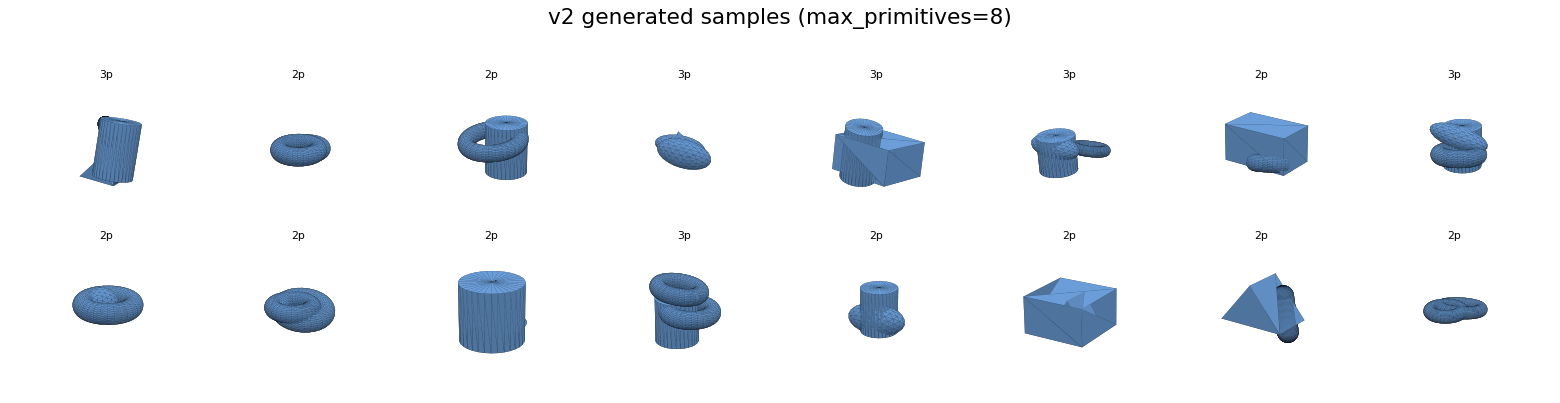
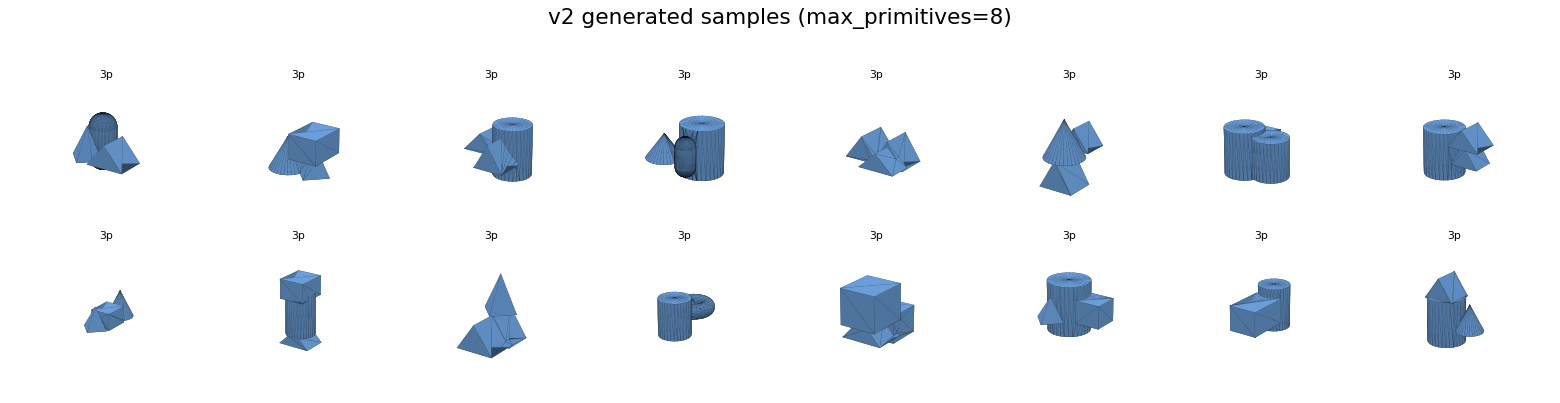
fix(mesh): clean union export, structured placement, exact/higher-fidelity inertia
Addresses faulty v2 mesh topology and improves URDF mass/inertia accuracy:
- export: visual/collision mesh is now the watertight boolean UNION
  (ExportConfig.union_visual_mesh) instead of an overlapping-primitive
  concatenation -> no internal faces / self-intersections in RViz/MoveIt.
- cem: structured placement (ParameterDistribution.structured_placement) seats
  each non-base primitive against a face of an existing one, axis-aligned, then
  re-seats the assembly on the ground -> coherent multi-part objects instead of
  random blobs. Legacy free-offset placement retained (paper_repro uses it).
- primitives: single-primitive objects use exact analytic inertia
  (box/cyl/sphere/ellipsoid; ellipsoid gained an exact tensor); icosphere
  subdiv 2->3 and cone 32 sections cut curved-primitive faceting from ~5% to <1%.
- gallery re-rendered from union meshes (docs/gallery/*.png).

Audit (docs/mesh_and_inertia.md): single box exact to 0.00%; all 80 archetypes +
sampled objects have valid (PD, symmetric, triangle-inequality) inertia and COM
inside AABB; 0 non-watertight fallbacks. Tests: 107 passing.

diff --git a/src/cem.py b/src/cem.py
@@ -24,7 +24,7 @@ from pathlib import Path
 from primitives import (
     CompositeObject, Primitive, Box, Cylinder, Sphere, Capsule,
     Cone, Pyramid, Torus, Ellipsoid, Wedge,
-    Transform, PrimitiveType, seat_height,
+    Transform, PrimitiveType, seat_height, half_extents,
 )
 from scoring import ObjectScorer, ScoreBreakdown, ScoringConfig
 
@@ -147,6 +147,15 @@ class ParameterDistribution:
     rotation_std: float = 0.3
     friction_mean: float = 0.8
     friction_std: float = 0.2
+    # v2 default: place each non-base primitive against a FACE of an existing
+    # one, axis-aligned (structured, "assembled"-looking objects). Set False for
+    # the v1 free random-offset placement.
+    structured_placement: bool = True
+    # Overlap fraction (of the smaller half-extent) when face-attaching, so the
+    # contact is a solid intersection rather than a tangential touch. Generous
+    # enough to stay robust to the approximate half_extents of asymmetric
+    # primitives (cone/pyramid/wedge).
+    attach_overlap: float = 0.4
 
     def __post_init__(self):
         if self.n_primitives_probs is None:
@@ -169,16 +178,18 @@ class ParameterDistribution:
         return int(rng.choice(len(self.n_primitives_probs), p=self.n_primitives_probs) + 1)
 
     def sample_primitive(self, rng: np.random.Generator, is_base: bool = False) -> Primitive:
-        """Sample one primitive of a CEM-chosen type with appropriate transform."""
+        """Sample one primitive of a CEM-chosen type. In structured mode the
+        transform is left at identity (placement is done by sample_object); in
+        legacy mode a random offset+rotation is applied here."""
         ti = int(rng.choice(len(PRIMITIVE_SPECS), p=self.primitive_type_probs))
         spec = PRIMITIVE_SPECS[ti]
         log_p = rng.normal(self.type_log_means[spec.key], self.type_log_stds[spec.key])
         params = np.clip(np.exp(log_p), spec.clamp_lo, spec.clamp_hi)
 
-        if is_base:
+        offset = np.zeros(3)
+        euler = np.zeros(3)
+        if is_base or self.structured_placement:
             transform = Transform.identity()
-            offset = np.zeros(3)
-            euler = np.zeros(3)
         else:
             offset = rng.normal(0.0, self.offset_std, size=3)
             euler = rng.normal(0.0, self.rotation_std, size=3)
@@ -187,27 +198,52 @@ class ParameterDistribution:
         prim = spec.build(params, transform)
         if is_base:
             prim.transform.translation[2] = seat_height(prim)
-        # Record the sampled placement so the CEM update can learn offset/rotation
-        # spread (these are not otherwise recoverable from the rotation matrix).
         prim._cem_offset = offset
         prim._cem_euler = euler
         return prim
 
+    def _attach(self, new: Primitive, anchor: Primitive, rng: np.random.Generator):
+        """Seat *new* against a face of *anchor*, axis-aligned, with overlap so
+        the union is a single solid. Any of the 6 faces — the whole object is
+        re-seated on the ground afterwards, so going below the anchor is fine."""
+        ha = half_extents(anchor)
+        hn = half_extents(new)
+        axis = int(rng.integers(0, 3))
+        sign = float(rng.choice([-1.0, 1.0]))
+        d = ha[axis] + hn[axis] - self.attach_overlap * min(ha[axis], hn[axis])
+        center = np.asarray(anchor.transform.translation, float).copy()
+        center[axis] += sign * d
+        new.transform.translation = center
+        new._cem_offset = center - np.asarray(anchor.transform.translation, float)
+
     def sample_object(self, rng: np.random.Generator,
                       name: str = "sampled_object") -> CompositeObject:
-        """Sample a composite object. Secondary primitives are attached to a
-        random existing primitive (chain/tree growth), biasing toward a single
-        connected body rather than scattering parts around the base only."""
+        """Sample a composite object. Each secondary primitive attaches to a
+        random existing primitive — by face contact (structured, default) or by
+        a random offset (legacy) — biasing toward a single connected body."""
         n_prims = self.sample_n_primitives(rng)
         base = self.sample_primitive(rng, is_base=True)
         primitives = [base]
 
-        for _ in range(1, n_prims):
-            prim = self.sample_primitive(rng, is_base=False)
-            anchor = primitives[int(rng.integers(0, len(primitives)))]
-            prim.transform.translation = prim.transform.translation + anchor.transform.translation
-            prim.transform.translation[2] = max(0.005, float(prim.transform.translation[2]))
-            primitives.append(prim)
+        if self.structured_placement:
+            base.transform.translation[2] = 0.0      # re-seated globally below
+            for _ in range(1, n_prims):
+                prim = self.sample_primitive(rng, is_base=False)
+                anchor = primitives[int(rng.integers(0, len(primitives)))]
+                self._attach(prim, anchor, rng)
+                primitives.append(prim)
+            # Shift the whole assembly so its lowest point rests on z=0.
+            low = min(float(p.transform.translation[2]) - float(half_extents(p)[2])
+                      for p in primitives)
+            for p in primitives:
+                p.transform.translation[2] -= low
+        else:
+            for _ in range(1, n_prims):
+                prim = self.sample_primitive(rng, is_base=False)
+                anchor = primitives[int(rng.integers(0, len(primitives)))]
+                prim.transform.translation = prim.transform.translation + anchor.transform.translation
+                prim.transform.translation[2] = max(0.005, float(prim.transform.translation[2]))
+                primitives.append(prim)
 
         friction = float(np.clip(rng.normal(self.friction_mean, self.friction_std), 0.1, 2.0))
         return CompositeObject(primitives=primitives, name=name, friction=friction)
@@ -225,6 +261,8 @@ class ParameterDistribution:
             'rotation_std': float(self.rotation_std),
             'friction_mean': float(self.friction_mean),
             'friction_std': float(self.friction_std),
+            'structured_placement': bool(self.structured_placement),
+            'attach_overlap': float(self.attach_overlap),
         }
 
     @classmethod
@@ -244,6 +282,8 @@ class ParameterDistribution:
         obj.rotation_std = float(d.get('rotation_std', obj.rotation_std))
         obj.friction_mean = float(d.get('friction_mean', obj.friction_mean))
         obj.friction_std = float(d.get('friction_std', obj.friction_std))
+        obj.structured_placement = bool(d.get('structured_placement', obj.structured_placement))
+        obj.attach_overlap = float(d.get('attach_overlap', obj.attach_overlap))
         return obj
 
 

diff --git a/src/primitives.py b/src/primitives.py
@@ -162,7 +162,9 @@ class Sphere(Primitive):
         object.__setattr__(self, 'ptype', PrimitiveType.SPHERE)
     
     def to_mesh(self) -> trimesh.Trimesh:
-        mesh = trimesh.creation.icosphere(radius=self.radius, subdivisions=2)
+        # subdivisions=3 keeps the mass/inertia faceting error < ~1% (was ~3-5%
+        # at subdivisions=2). See DISCREPANCIES / mesh-accuracy notes.
+        mesh = trimesh.creation.icosphere(radius=self.radius, subdivisions=3)
         mesh.apply_transform(self.transform.as_matrix())
         return mesh
     
@@ -229,7 +231,8 @@ class Cone(Primitive):
         object.__setattr__(self, 'ptype', PrimitiveType.CONE)
 
     def to_mesh(self) -> trimesh.Trimesh:
-        mesh = trimesh.creation.cone(radius=self.radius, height=self.height)
+        mesh = trimesh.creation.cone(radius=self.radius, height=self.height,
+                                     sections=32)
         # trimesh cone has its base at z=0; centroid is at h/4. Recenter.
         mesh.apply_translation([0.0, 0.0, -self.height / 4.0])
         mesh.apply_transform(self.transform.as_matrix())
@@ -303,7 +306,7 @@ class Ellipsoid(Primitive):
         self.radii = np.array(self.radii, dtype=float)
 
     def to_mesh(self) -> trimesh.Trimesh:
-        mesh = trimesh.creation.icosphere(radius=1.0, subdivisions=2)
+        mesh = trimesh.creation.icosphere(radius=1.0, subdivisions=3)
         mesh.apply_scale(self.radii.tolist())
         mesh.apply_transform(self.transform.as_matrix())
         return mesh
@@ -312,7 +315,13 @@ class Ellipsoid(Primitive):
         return (4.0 / 3.0) * np.pi * float(np.prod(self.radii))
 
     def inertia_tensor(self, density: float = 1000.0) -> np.ndarray:
-        return self._mesh_inertia(density)
+        """Exact solid-ellipsoid tensor: I = m/5 diag(b²+c², a²+c², a²+b²),
+        rotated into world axes (no faceting error)."""
+        m = self.volume() * density
+        a, b, c = self.radii
+        I_local = (m / 5.0) * np.diag([b * b + c * c, a * a + c * c, a * a + b * b])
+        R = self.transform.rotation
+        return R @ I_local @ R.T
 
 
 @dataclass
@@ -381,6 +390,35 @@ def seat_height(prim: Primitive) -> float:
         return float(prim.height / 3)        # triangle centroid at h/3
     # Fallback: derive from the mesh.
     return float(-prim.to_mesh().bounds[0][2])
+
+
+def half_extents(prim: Primitive) -> np.ndarray:
+    """Axis-aligned half-extents of a primitive in its LOCAL (unrotated) frame.
+
+    Used by the structured-placement sampler to seat one primitive against a
+    face of another. Approximate for cone/pyramid/wedge (treated symmetric),
+    which is fine for contact placement with an overlap margin.
+    """
+    if isinstance(prim, Box):
+        return np.asarray(prim.dimensions, float) / 2.0
+    if isinstance(prim, Cylinder):
+        return np.array([prim.radius, prim.radius, prim.height / 2.0])
+    if isinstance(prim, Sphere):
+        return np.array([prim.radius, prim.radius, prim.radius])
+    if isinstance(prim, Capsule):
+        h = prim.height / 2.0 + prim.radius
+        return np.array([prim.radius, prim.radius, h])
+    if isinstance(prim, (Cone, Pyramid)):
+        return np.array([prim.radius, prim.radius, prim.height / 2.0])
+    if isinstance(prim, Torus):
+        rr = prim.major_radius + prim.minor_radius
+        return np.array([rr, rr, prim.minor_radius])
+    if isinstance(prim, Ellipsoid):
+        return np.asarray(prim.radii, float)
+    if isinstance(prim, Wedge):
+        return np.array([prim.width / 2.0, prim.depth / 2.0, prim.height / 2.0])
+    he = (prim.to_mesh().bounds[1] - prim.to_mesh().bounds[0]) / 2.0
+    return np.asarray(he, float)
 
 
 @dataclass
@@ -494,6 +532,14 @@ class CompositeObject:
         Returns (mass, inertia_3x3_about_com, com). Raises if the union is not
         watertight (callers should fall back to the analytic path).
         """
+        # Single primitive: use its exact analytic tensor where one exists
+        # (box/cylinder/sphere/ellipsoid) — zero faceting error and no CSG.
+        if len(self.primitives) == 1:
+            p = self.primitives[0]
+            if isinstance(p, (Box, Cylinder, Sphere, Ellipsoid)):
+                mass = float(p.volume() * density)
+                return mass, p.inertia_tensor(density), np.asarray(p.transform.translation, float)
+
         mesh = self._strict_union()
         if mesh is None or len(mesh.vertices) == 0 or not mesh.is_watertight:
             raise ValueError("union mesh is not watertight; cannot integrate mass properties")

diff --git a/src/export.py b/src/export.py
@@ -47,6 +47,12 @@ class ExportConfig:
     # File formats
     mesh_format: str = "obj"  # "obj" or "stl"
 
+    # v2 default (True): export the watertight boolean-UNION as the visual /
+    # collision mesh instead of a raw concatenation of overlapping primitives
+    # (which leaves internal faces / self-intersections — bad topology in
+    # RViz/MoveIt). Falls back to concatenation if no CSG backend is available.
+    union_visual_mesh: bool = True
+
 
 class URDFExporter:
     """Exports CompositeObjects to URDF format with all required files."""
@@ -78,8 +84,10 @@ class URDFExporter:
         meshes_dir = output_dir / "meshes"
         meshes_dir.mkdir(exist_ok=True)
         
-        # Generate meshes
-        visual_mesh = obj.to_mesh(boolean_union=False)
+        # Generate meshes. The union (boolean_union=True) yields a clean
+        # watertight manifold; it falls back to concatenation if no CSG backend
+        # is installed. Set union_visual_mesh=False for the v1 concatenation.
+        visual_mesh = obj.to_mesh(boolean_union=self.config.union_visual_mesh)
         collision_mesh = self._prepare_collision_mesh(visual_mesh)
         
         # Compute physical properties

diff --git a/scripts/render_gallery.py b/scripts/render_gallery.py
@@ -74,7 +74,7 @@ def main():
     named = []
     for name, fn in ARCHETYPE_REGISTRY.items():
         try:
-            named.append((name, fn().to_mesh(boolean_union=False)))
+            named.append((name, fn().to_mesh(boolean_union=True)))
         except Exception as e:                       # pragma: no cover
             print(f"skip {name}: {e}")
     _grid(named, OUT / "archetypes.png", args.cols,
@@ -87,7 +87,7 @@ def main():
         cem_iterations=args.iterations, cem_samples=60))
     gen.train(verbose=False)
     objs = gen.generate(args.samples)
-    smp = [(f"{len(o.primitives)}p", o.to_mesh(boolean_union=False)) for o in objs]
+    smp = [(f"{len(o.primitives)}p", o.to_mesh(boolean_union=True)) for o in objs]
     _grid(smp, OUT / "v2_samples.png", min(args.cols, 8),
           f"v2 generated samples (max_primitives=8)")
 

diff --git a/src/generator.py b/src/generator.py
@@ -356,6 +356,7 @@ def paper_repro_generator(seed: int = 42) -> 'RoboticObjectGenerator':
     type_probs[:4] = [0.4, 0.35, 0.15, 0.1]
     gen.distribution.primitive_type_probs = type_probs
     gen.distribution.n_primitives_probs = np.array([0.3, 0.4, 0.2, 0.1])
+    gen.distribution.structured_placement = False   # v1 used free random offsets
     return gen
 
 

diff --git a/docs/mesh_and_inertia.md b/docs/mesh_and_inertia.md
@@ -1,0 +1,46 @@
+# Mesh generation & URDF inertia — analysis and v2.1 fixes
+
+## URDF mass / inertia accuracy (audited)
+
+| check | result |
+|---|---|
+| single box vs exact analytic | mass & Ixx/Iyy/Izz match to **0.00%** — frame (tensor about COM, link axes, rpy=0), formula, and units are correct |
+| inertia validity, all 80 archetypes + 60 sampled objects | **100%** positive-definite, symmetric, satisfy the principal-moment triangle inequality; COM always inside the AABB |
+| overlap handling | v2 union mass is correct; the v1/analytic path **overestimates overlapping objects by ~11%** (double-counts overlap) — fixed by `use_mesh_inertia=True` |
+| non-watertight union fallback | **0/80** archetypes, **0%** of sampled objects fall back to the analytic path |
+
+**The one real error was faceting** (curved primitives integrated from coarse
+polyhedra): sphere/ellipsoid were ~−3.4% volume / ~−5.6% inertia at
+`icosphere(subdivisions=2)`.
+
+## Fixes applied (v2.1)
+
+1. **Exact analytic inertia for single primitives** — when an object is one
+   box / cylinder / sphere / ellipsoid, `mesh_mass_properties` returns the exact
+   closed-form tensor (and `Ellipsoid` got an exact `m/5·diag(...)` tensor).
+   Single sphere & ellipsoid mass/inertia error is now **0.00%**.
+2. **Higher tessellation** — `icosphere` subdivisions 2→3 (sphere/ellipsoid
+   faceting < ~1%), cone given 32 sections. Cylinders were already < 1%.
+3. **Union visual/collision mesh** (`ExportConfig.union_visual_mesh=True`) — the
+   exported visual/collision mesh is now the watertight boolean **union**, not a
+   concatenation of overlapping primitives. Fixes the non-manifold "soup"
+   (internal faces, self-intersections) seen in RViz/MoveIt and makes the
+   rendered/collision geometry consistent with the mass/inertia mesh.
+4. **Structured placement** (`ParameterDistribution.structured_placement=True`)
+   — each non-base primitive is seated against a **face** of an existing one,
+   axis-aligned, with an overlap margin, and the whole assembly is re-seated on
+   the ground. Generated objects now look like coherent multi-part assemblies
+   instead of randomly offset blobs. Legacy free-offset placement remains
+   available (and is what `paper_repro_generator` uses).
+
+Remaining notes (not bugs): the Gazebo SDF collision is still replaced by an
+AABB box (`patch_sdf_collision.py`) as a coarse sim-contact proxy; density is a
+uniform 1000 kg/m³; structured-placement connectivity is ~85% at sample time
+(the `require_connected` filter keeps only connected objects at generation).
+
+## Caveat for the earlier sweep numbers
+
+`docs/results_v2.md` was generated **before** structured placement (it used the
+free random-offset distribution). The independent metrics may shift under
+structured placement; re-run `scripts/sweep_v2.py` if paper-grade numbers are
+needed for the v2.1 generator.
